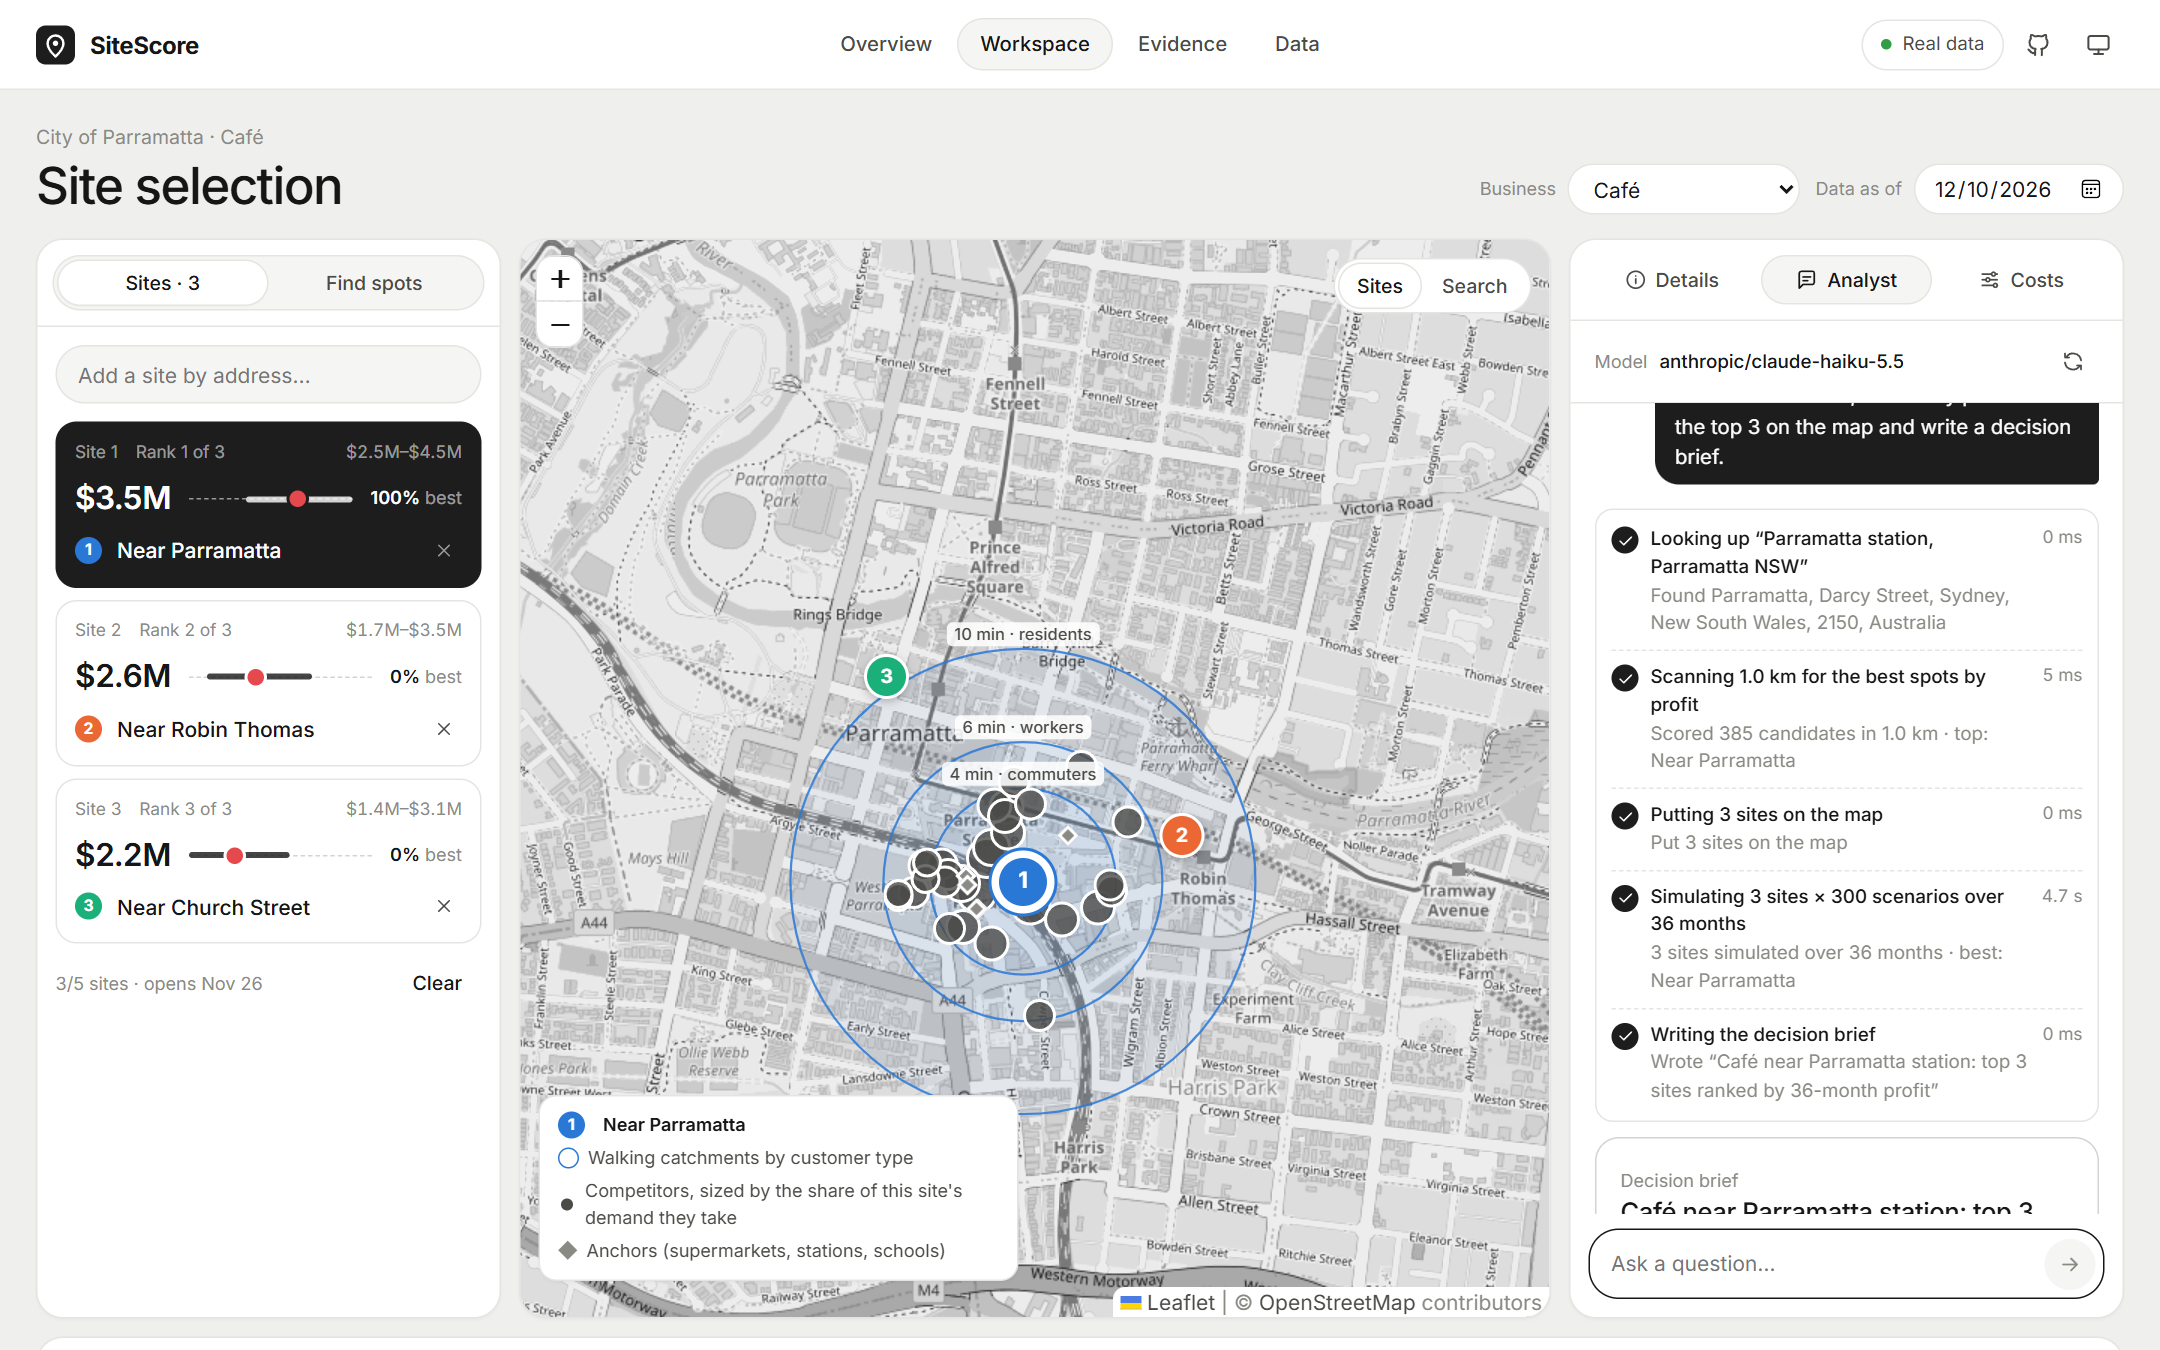
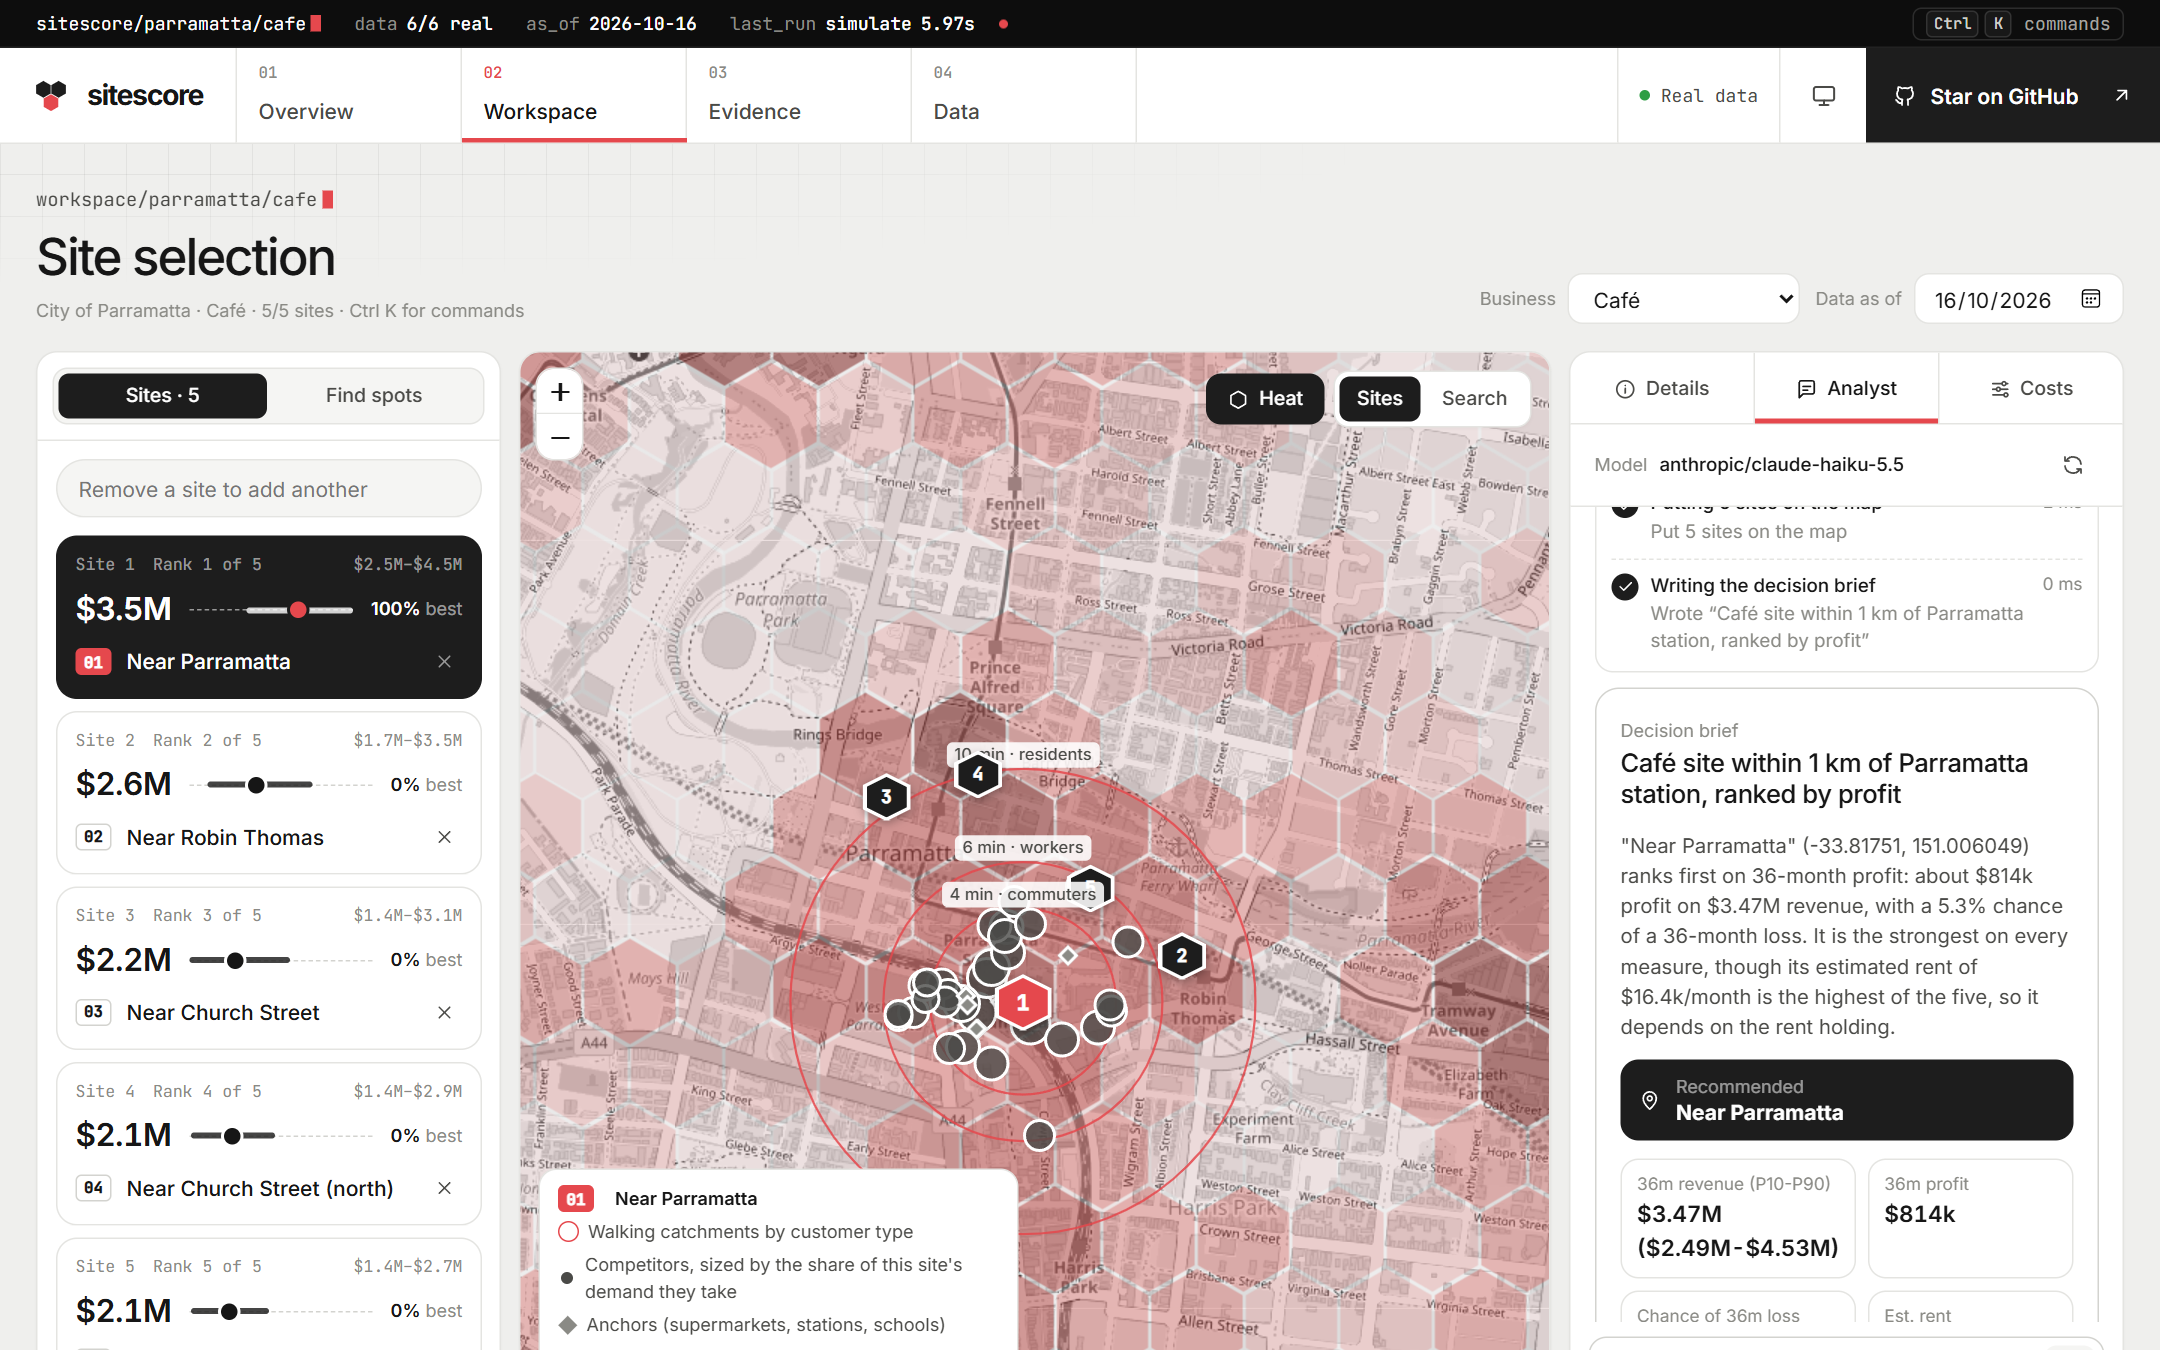
Refresh the README screenshots for the new design
All seven retaken at 1440x900 (1.5x) from the running app: overview with
the hex map and a scored corner, workspace in light and dark with the
demo sites, results, evidence, data, and a live analyst run with its
decision brief. The README gains the region map in its feature list,
a red badge, and a results caption that matches the single band.

diff --git a/README.md b/README.md
@@ -11,7 +11,7 @@ An open-source simulator that projects 36 months of revenue for any street corne
 [![License: MIT](https://img.shields.io/badge/license-MIT-1d1d1d)](LICENSE)
 [![Python 3.11+](https://img.shields.io/badge/python-3.11%2B-1d1d1d)](pyproject.toml)
 [![React + TypeScript](https://img.shields.io/badge/react-typescript-1d1d1d)](frontend/)
-[![Data contributions wanted](https://img.shields.io/badge/data-contributions%20wanted-b5e66c)](#help-train-sitescore)
+[![Data contributions wanted](https://img.shields.io/badge/data-contributions%20wanted-e5484d)](#help-train-sitescore)
 
 [Quick start](#quick-start) · [Help train it](#help-train-sitescore) · [How it works](#how-it-works) · [How accurate is it?](#how-accurate-is-it) · [Docs](#documentation)
 
@@ -31,6 +31,7 @@ Pick a business type and a few candidate addresses, or let it search an area for
 - **Projects 36 months.** Ramp-up, seasons, school holidays and approved developments landing on schedule, with **300 Monte Carlo scenarios** for P10–P90 ranges, the chance of each site being best and the chance of a loss.
 - **Estimates rent and profit.** Each site's rent is scaled from foot traffic and local rents, so a busy corner with a high rent can lose to a quieter, cheaper one.
 - **Explains itself.** Revenue is exactly the product of eight layers, so every gap between two sites is broken down layer by layer.
+- **Maps the whole region.** Every corner of the council is scored on a 250 m hex grid, so the hotspots show at a glance; click any of them for a full run of the model.
 - **Finds spots.** Draw a circle and it scores every corner (or only vacant shopfronts) and ranks the best by revenue or profit.
 - **Looks back in time.** Run it "as of" any date since 2022 and it sees only the data published by then.
 
@@ -39,7 +40,7 @@ And it has an **AI analyst** that does the legwork: ask a question in plain Engl
 | Ask the analyst | Compare the results |
 |---|---|
 | ![The analyst searches near Parramatta station, simulates the shortlist, puts it on the map and writes a decision brief](docs/images/analyst.png) | ![36-month revenue with P10–P90 bands, and a comparison table of revenue, profit, rent and loss risk](docs/images/results.png) |
-| It plans an investigation, calls SiteScore's own tools (spot search, 36-month simulation, catchment inspection, backtest), shows every step, and writes a downloadable decision brief. Every number it quotes comes from the model. | Revenue or profit over 36 months with uncertainty bands, plus a side-by-side table: revenue, range, profit, estimated rent, chance of being best and loss risk. |
+| It plans an investigation, calls SiteScore's own tools (spot search, 36-month simulation, catchment inspection, backtest), shows every step, and writes a downloadable decision brief. Every number it quotes comes from the model. | Revenue or profit over 36 months, with the selected site's uncertainty band, plus a side-by-side table: revenue and its range, profit, estimated rent, chance of being best and loss risk. |
 
 ## Quick start
 
